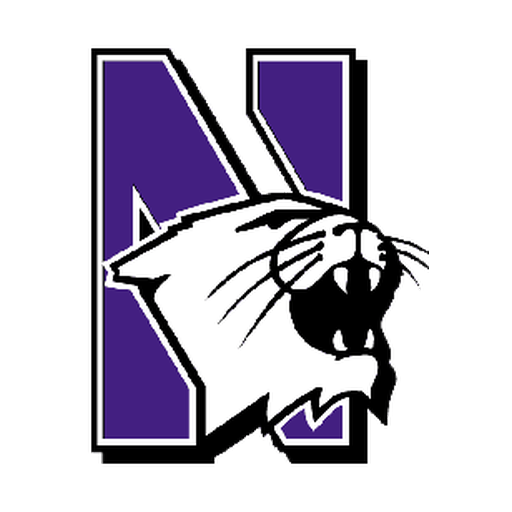
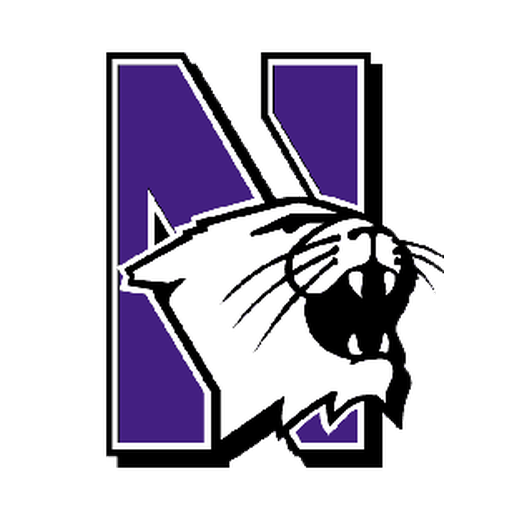
Correct Northwestern optical alignment; enlarge vintage Goldy and Purdue Pete (#352)
* Add fail-closed source-art correction for Northwestern, Goldy and Purdue Pete

* Run one-off Pillow pixel adjustment and audit for the three archival marks

* Optically center Northwestern and enlarge Goldy and Purdue Pete

* Remove completed one-off mascot source-art processing workflow

---------

Changed region(s): [[0.1562, 0.0938, 0.875, 0.9375]]

diff --git a/cbb-big-ten-1980s-preview.html b/cbb-big-ten-1980s-preview.html
@@ -54,8 +54,8 @@ a{color:#74412e}a:focus-visible{outline:3px solid #bd672f}
 <main class="wrap">
 <header class="masthead"><div class="eyebrow">Sporting Life &amp; Times · Collegiate Basketball</div><h1>The Big Ten in the Eighties</h1>
 <p>The genuine historical logos of the ten universities competing in the Big Ten during the 1980s—framed in larger, bold, two-color rings. The same crests will be used by the men's and women's editions.</p>
-<div class="tag">Ten verified historic emblems · Images embedded</div></header>
-<p class="intro">These are the <strong>actual archive PNGs</strong> stored in the newspaper repository and embedded directly in this preview. The outer and inner school-color rings are enlarged, with the full image contained inside each circle.</p>
+<div class="tag">Ten original-era emblems · Stored locally</div></header>
+<p class="intro">These are the <strong>actual archive PNGs</strong> stored locally in the newspaper repository and loaded directly by this preview. The outer and inner school-color rings are enlarged, with the full image contained inside each circle.</p>
 <section aria-labelledby="logos"><h2 id="logos">Original-era logo collection</h2>
 <div class="gallery">
 <article class="school"><span class="crest " style="--primary:#990000;--secondary:#f5e3cc"><img src="assets/cbb-big-ten-1980s/centered/indiana.png" alt="Indiana Hoosiers historic school logo" loading="eager" decoding="async"><span class="fallback-note">Image unavailable</span></span><strong>Indiana Hoosiers</strong><div class="era">Archive era: 1979–1997</div></article>
@@ -63,12 +63,12 @@ a{color:#74412e}a:focus-visible{outline:3px solid #bd672f}
 <article class="school"><span class="crest " style="--primary:#231f20;--secondary:#fcd116"><img src="assets/cbb-big-ten-1980s/centered/iowa.png" alt="Iowa Hawkeyes historic school logo" loading="eager" decoding="async"><span class="fallback-note">Image unavailable</span></span><strong>Iowa Hawkeyes</strong><div class="era">Archive era: 1979–present</div></article>
 <article class="school"><span class="crest " style="--primary:#00274c;--secondary:#ffcb05"><img src="assets/cbb-big-ten-1980s/centered/michigan.png" alt="Michigan Wolverines historic school logo" loading="eager" decoding="async"><span class="fallback-note">Image unavailable</span></span><strong>Michigan Wolverines</strong><div class="era">Archive era: 1901–1994</div></article>
 <article class="school"><span class="crest " style="--primary:#173f35;--secondary:#627a74"><img src="assets/cbb-big-ten-1980s/centered/michigan-state.png" alt="Michigan State Spartans historic school logo" loading="eager" decoding="async"><span class="fallback-note">Image unavailable</span></span><strong>Michigan State Spartans</strong><div class="era">Archive era: 1977–2010</div></article>
-<article class="school"><span class="crest " style="--primary:#5e0a2f;--secondary:#fab41c"><img src="assets/cbb-big-ten-1980s/centered/minnesota.png" alt="Minnesota Golden Gophers user-selected vintage running gopher logo" loading="eager" decoding="async"><span class="fallback-note">Image unavailable</span></span><strong>Minnesota Golden Gophers</strong><div class="era">User-selected historic running gopher</div></article>
-<article class="school"><span class="crest " style="--primary:#492f92;--secondary:#8070ac"><img src="assets/cbb-big-ten-1980s/centered/northwestern.png" alt="Northwestern Wildcats historic school logo" loading="eager" decoding="async"><span class="fallback-note">Image unavailable</span></span><strong>Northwestern Wildcats</strong><div class="era">Archive era: 1981–2011</div></article>
+<article class="school"><span class="crest " style="--primary:#5e0a2f;--secondary:#fab41c"><img src="assets/cbb-big-ten-1980s/centered/minnesota.png?v=20261113-optical-v2" alt="Minnesota Golden Gophers user-selected vintage running gopher logo" loading="eager" decoding="async"><span class="fallback-note">Image unavailable</span></span><strong>Minnesota Golden Gophers</strong><div class="era">User-selected historic running gopher</div></article>
+<article class="school"><span class="crest " style="--primary:#492f92;--secondary:#8070ac"><img src="assets/cbb-big-ten-1980s/centered/northwestern.png?v=20261113-optical-v2" alt="Northwestern Wildcats historic school logo" loading="eager" decoding="async"><span class="fallback-note">Image unavailable</span></span><strong>Northwestern Wildcats</strong><div class="era">Archive era: 1981–2011</div></article>
 <article class="school"><span class="crest " style="--primary:#ba0c2f;--secondary:#a8adb4"><img src="assets/cbb-big-ten-1980s/centered/ohio-state.png" alt="Ohio State Buckeyes historic school logo" loading="eager" decoding="async"><span class="fallback-note">Image unavailable</span></span><strong>Ohio State Buckeyes</strong><div class="era">Archive era: 1968–1987</div></article>
-<article class="school"><span class="crest " style="--primary:#ceb888;--secondary:#000000"><img src="assets/cbb-big-ten-1980s/centered/purdue.png" alt="Purdue Boilermakers historic school logo" loading="eager" decoding="async"><span class="fallback-note">Image unavailable</span></span><strong>Purdue Boilermakers</strong><div class="era">Archive era:1979–2006</div></article>
+<article class="school"><span class="crest " style="--primary:#ceb888;--secondary:#000000"><img src="assets/cbb-big-ten-1980s/centered/purdue.png?v=20261113-optical-v2" alt="Purdue Boilermakers historic school logo" loading="eager" decoding="async"><span class="fallback-note">Image unavailable</span></span><strong>Purdue Boilermakers</strong><div class="era">Archive era:1979–2006</div></article>
 <article class="school"><span class="crest " style="--primary:#a00000;--secondary:#b45454"><img src="assets/cbb-big-ten-1980s/centered/wisconsin.png" alt="Wisconsin Badgers historic school logo" loading="eager" decoding="async"><span class="fallback-note">Image unavailable</span></span><strong>Wisconsin Badgers</strong><div class="era">Archive era:1970–2003</div></article>
 </div></section>
-<section aria-labelledby="scorebugs"><h2 id="scorebugs">How the bigger logos fit on scorebugs</h2><div class="bench"><article class="ledger-card"><div class="ledger-kicker">Men's college basketball <span>DESIGN SAMPLE • NOT A SCHEDULED GAME</span></div><div class="ledger-main"><div class="ledger-row"><span class="crest ledger-crest" style="--primary:#990000;--secondary:#f5e3cc"><img src="assets/cbb-big-ten-1980s/centered/indiana.png" alt="Indiana Hoosiers historic school logo" loading="eager" decoding="async"><span class="fallback-note">Image unavailable</span></span><div class="ledger-school"><strong>Indiana Hoosiers</strong><small>Original historical university crest</small></div><div class="ledger-score">—</div></div><div class="ledger-row"><span class="crest ledger-crest" style="--primary:#173f35;--secondary:#627a74"><img src="assets/cbb-big-ten-1980s/centered/michigan-state.png" alt="Michigan State Spartans historic school logo" loading="eager" decoding="async"><span class="fallback-note">Image unavailable</span></span><div class="ledger-school"><strong>Michigan State Spartans</strong><small>Original historical university crest</small></div><div class="ledger-score">—</div></div></div><div class="ledger-foot"><span>RETRO —</span><span>Large emblems · No name overlap</span></div></article><article class="ledger-card"><div class="ledger-kicker">Women's college basketball <span>DESIGN SAMPLE • NOT A SCHEDULED GAME</span></div><div class="ledger-main"><div class="ledger-row"><span class="crest ledger-crest" style="--primary:#ff5f05;--secondary:#13294b"><img src="assets/cbb-big-ten-1980s/centered/illinois.png" alt="Illinois Fighting Illini historic school logo" loading="eager" decoding="async"><span class="fallback-note">Image unavailable</span></span><div class="ledger-school"><strong>Illinois Fighting Illini</strong><small>Original historical university crest</small></div><div class="ledger-score">—</div></div><div class="ledger-row"><span class="crest ledger-crest" style="--primary:#ceb888;--secondary:#000000"><img src="assets/cbb-big-ten-1980s/centered/purdue.png" alt="Purdue Boilermakers historic school logo" loading="eager" decoding="async"><span class="fallback-note">Image unavailable</span></span><div class="ledger-school"><strong>Purdue Boilermakers</strong><small>Original historical university crest</small></div><div class="ledger-score">—</div></div></div><div class="ledger-foot"><span>RETRO —</span><span>Large emblems · No name overlap</span></div></article></div></section>
+<section aria-labelledby="scorebugs"><h2 id="scorebugs">How the bigger logos fit on scorebugs</h2><div class="bench"><article class="ledger-card"><div class="ledger-kicker">Men's college basketball <span>DESIGN SAMPLE • NOT A SCHEDULED GAME</span></div><div class="ledger-main"><div class="ledger-row"><span class="crest ledger-crest" style="--primary:#990000;--secondary:#f5e3cc"><img src="assets/cbb-big-ten-1980s/centered/indiana.png" alt="Indiana Hoosiers historic school logo" loading="eager" decoding="async"><span class="fallback-note">Image unavailable</span></span><div class="ledger-school"><strong>Indiana Hoosiers</strong><small>Original historical university crest</small></div><div class="ledger-score">—</div></div><div class="ledger-row"><span class="crest ledger-crest" style="--primary:#173f35;--secondary:#627a74"><img src="assets/cbb-big-ten-1980s/centered/michigan-state.png" alt="Michigan State Spartans historic school logo" loading="eager" decoding="async"><span class="fallback-note">Image unavailable</span></span><div class="ledger-school"><strong>Michigan State Spartans</strong><small>Original historical university crest</small></div><div class="ledger-score">—</div></div></div><div class="ledger-foot"><span>RETRO —</span><span>Large emblems · No name overlap</span></div></article><article class="ledger-card"><div class="ledger-kicker">Women's college basketball <span>DESIGN SAMPLE • NOT A SCHEDULED GAME</span></div><div class="ledger-main"><div class="ledger-row"><span class="crest ledger-crest" style="--primary:#ff5f05;--secondary:#13294b"><img src="assets/cbb-big-ten-1980s/centered/illinois.png" alt="Illinois Fighting Illini historic school logo" loading="eager" decoding="async"><span class="fallback-note">Image unavailable</span></span><div class="ledger-school"><strong>Illinois Fighting Illini</strong><small>Original historical university crest</small></div><div class="ledger-score">—</div></div><div class="ledger-row"><span class="crest ledger-crest" style="--primary:#ceb888;--secondary:#000000"><img src="assets/cbb-big-ten-1980s/centered/purdue.png?v=20261113-optical-v2" alt="Purdue Boilermakers historic school logo" loading="eager" decoding="async"><span class="fallback-note">Image unavailable</span></span><div class="ledger-school"><strong>Purdue Boilermakers</strong><small>Original historical university crest</small></div><div class="ledger-score">—</div></div></div><div class="ledger-foot"><span>RETRO —</span><span>Large emblems · No name overlap</span></div></article></div></section>
 <footer class="notes"><strong>Design preview, not a live scoreboard.</strong> The matchups above demonstrate the layout only, and the dashes are not game results. Later Big Ten additions will retain their own authentic institutional logos and are not presented as 1980s Big Ten members. This page does not change schedules, RETRO calculations, or any live CBB page. Historical school marks belong to their respective institutions.</footer>
 </main></body></html>

diff --git a/scripts/refine_big_ten_three_marks.py b/scripts/refine_big_ten_three_marks.py
@@ -1,0 +1,149 @@
+#!/usr/bin/env python3
+"""One-time source-art QA correction: Northwestern, Goldy and Purdue Pete.
+
+Only changes image pixels on a fixed 512px white canvas. Does not use JS or
+per-school CSS positioning. Input Git blobs are pinned to prevent accidental
+repeated enlargement. The same source path serves gallery and ledger mockups.
+"""
+from __future__ import annotations
+
+from collections import defaultdict
+from io import BytesIO
+from pathlib import Path
+import hashlib
+import json
+import math
+import re
+
+from PIL import Image
+
+ROOT = Path(__file__).resolve().parent.parent
+ASSETS = ROOT / "assets/cbb-big-ten-1980s/centered"
+PAGE = ROOT / "cbb-big-ten-1980s-preview.html"
+SIDE = 512
+CENTER = SIDE / 2
+# Exact Git blob SHA of the images approved in PR #351; refuse to double-scale.
+EXPECTED = {
+    "northwestern": "8fb23914d36ffe66e66f464440cbba53936a7289",
+    "minnesota": "f01453129c3f364ff08e1f026068b569392972ab",
+    "purdue": "52f3356522ebe11ea48be8026a22b738088231f1",
+}
+# Fill more of the standard circle while keeping the full mascot image intact.
+TARGET_LONG = {"minnesota": 468, "purdue": 466}
+VERSION = "20261113-optical-v2"
+
+def git_blob_sha(raw):
+    return hashlib.sha1(b"blob " + str(len(raw)).encode() + b"\0" + raw).hexdigest()
+
+def foreground(image):
+    # Works for the white-background archival originals and opaque logo pixels.
+    data = image.convert("RGBA")
+    xs, ys, masses = [], [], []
+    for y in range(data.height):
+        for x in range(data.width):
+            r,g,b,a = data.getpixel((x,y))
+            if a < 100 or (r >= 241 and g >= 241 and b >= 241):
+                continue
+            xs.append(x)
+            ys.append(y)
+            masses.append(max(1, 255-min(r,g,b)))
+    if len(xs) < 80:
+        raise RuntimeError("Expected logo foreground was missing")
+    return xs, ys, masses
+
+def stats(image):
+    xs, ys, masses = foreground(image)
+    total = sum(masses)
+    xlo,xhi,ylo,yhi = min(xs),max(xs)+1,min(ys),max(ys)+1
+    cx = sum(x*m for x,m in zip(xs,masses))/total
+    cy = sum(y*m for y,m in zip(ys,masses))/total
+    # Quantify how much real art would be under the ring/clip on 104px mobile.
+    outside = sum(1 for x,y in zip(xs,ys) if (x-CENTER)**2+(y-CENTER)**2 > 238**2)
+    return {"bounds":[xlo,ylo,xhi,yhi],
+            "bbox_center":[round((xlo+xhi)/2,1),round((ylo+yhi)/2,1)],
+            "mass_center":[round(cx,1),round(cy,1)],
+            "ink_pixels":len(xs), "outside_ring_fraction":round(outside/len(xs),5)}
+
+def paste_white(art, x, y):
+    canvas=Image.new("RGBA",(SIDE,SIDE),(255,255,255,255))
+    canvas.alpha_composite(art,(x,y))
+    return canvas
+
+def fix_northwestern(image):
+    old=stats(image)
+    # The visible N + mascot has a left-heavy silhouette even with a
+    # mathematically centered bounding box. Shift the pixels, not the CSS.
+    cx,cy=old["mass_center"]
+    bx,by=old["bbox_center"]
+    dx=round(max(-16,min(16,0.72*(CENTER-cx)+0.28*(CENTER-bx))))
+    dy=round(max(-12,min(12,0.65*(CENTER-cy)+0.35*(CENTER-by))))
+    new=paste_white(image,(dx),(dy))
+    return new, {"shift_pixels":[dx,dy], "scale":1.0}
+
+def enlarge_mascot(image, target):
+    old=stats(image)
+    x0,y0,x1,y1=old["bounds"]
+    pad=3
+    x0=max(0,x0-pad);y0=max(0,y0-pad)
+    x1=min(SIDE,x1+pad);y1=min(SIDE,y1+pad)
+    art=image.crop((x0,y0,x1,y1))
+    ratio=target/max(art.size)
+    newsize=(round(art.width*ratio),round(art.height*ratio))
+    resized=art.resize(newsize,Image.Resampling.LANCZOS)
+    # Mathematical centering inside the circle; same layout for both genders.
+    centered=paste_white(resized,(SIDE-resized.width)//2,(SIDE-resized.height)//2)
+    result=stats(centered)
+    if max(abs(v-CENTER) for v in result["bbox_center"]) > 5.5:
+        raise AssertionError("Enlarged mascot is off-center")
+    if result["outside_ring_fraction"] > 0.07:
+        raise AssertionError("Enlarged mascot could have substantial ring clipping")
+    return centered, {"old_long":max(old["bounds"][2]-old["bounds"][0],old["bounds"][3]-old["bounds"][1]),
+                      "new_long":max(result["bounds"][2]-result["bounds"][0],result["bounds"][3]-result["bounds"][1]),
+                      "requested_long":target,
+                      "scale":round(ratio,3)}
+
+def main():
+    report={"intent":"Static source-asset alignment and size, no CSS or JS offsets","teams":{}}
+    for school,blob in EXPECTED.items():
+        f=ASSETS/(school+".png")
+        raw=f.read_bytes()
+        assert git_blob_sha(raw)==blob, f"Source changed unexpectedly: {f}; stop rather than double-enlarge"
+        image=Image.open(BytesIO(raw)).convert("RGBA")
+        assert image.size==(SIDE,SIDE)
+        before=stats(image)
+        output,details=(fix_northwestern(image) if school=="northwestern"
+                        else enlarge_mascot(image,TARGET_LONG[school]))
+        after=stats(output)
+        if school=="northwestern":
+            # Northwesterner's real silhouette needs to move, not change size.
+            if details["shift_pixels"]==[0,0]:
+                raise AssertionError("Northwestern received no optical correction")
+        else:
+            if details["new_long"] <= details["old_long"]*1.065:
+                raise AssertionError("Mascot was not visibly enlarged")
+        report["teams"][school]={"before":before,"after":after,**details}
+        output.save(f,format="PNG",optimize=True)
+
+    original=PAGE.read_text()
+    for name in EXPECTED:
+        plain=f"assets/cbb-big-ten-1980s/centered/{name}.png"
+        if name in ("northwestern","minnesota") and original.count('src="'+plain+'"')!=1:
+            raise AssertionError("Missing original gallery image: "+name)
+        if name=="purdue" and original.count('src="'+plain+'"')!=2:
+            raise AssertionError("Expected gallery and mock ledger Purdue images")
+        original=original.replace('src="'+plain+'"','src="'+plain+'?v='+VERSION+'"')
+    assert original.count("?v="+VERSION)==4
+    assert original.count('<img src="assets/cbb-big-ten-1980s/centered/')==14
+    assert "cbb-big-ten-optical-center" not in original and "--slt-ink-" not in original
+    original=original.replace("Ten verified historic emblems · Images embedded",
+                              "Ten original-era emblems · Stored locally")
+    original=original.replace("stored in the newspaper repository and embedded directly in this preview",
+                              "stored locally in the newspaper repository and loaded directly by this preview")
+    PAGE.write_text(original)
+    (ROOT/"reports").mkdir(exist_ok=True)
+    (ROOT/"reports/big-ten-mascot-optical-qa.json").write_text(json.dumps(report,indent=2)+"\n")
+    print(json.dumps(report,indent=2))
+    print("PASS: 3 source PNG corrections, 14 retained placements, cache-busted art, no CSS/JS offsets")
+
+if __name__=="__main__":
+    main()
